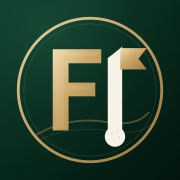
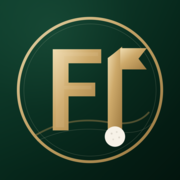
Add files via upload

Changed region(s): [[0.5833, 0.25, 0.6944, 0.7222], [0.6944, 0.75, 0.7222, 0.7778]]

diff --git a/styles.css b/styles.css
@@ -414,3 +414,185 @@ button,a,input,select,textarea,[role="button"],.quick-card,.learn-card,.guide-bu
   .nav-icon svg{width:31px;height:31px}
   .nav-item{font-size:10.5px}
 }
+
+/* V4.3 — balanced mobile scoring pass */
+@media(max-width:940px){
+  html,body{background:var(--paper)!important}
+  body{min-height:100vh;min-height:100dvh}
+  .desktop-shell,.phone-shell{background:var(--paper)!important}
+
+  .screen{padding-left:20px;padding-right:20px;padding-bottom:34px}
+  .welcome{padding:32px 3px 18px}
+  .welcome h1{font-size:38px;line-height:1.04;margin:9px 0 7px}
+  .page-title{font-size:36px;line-height:1.06}
+  .page-intro{padding:30px 3px 18px}
+  .eyebrow,.desktop-kicker{font-size:12px;letter-spacing:.17em}
+  .subtle,.body-copy{font-size:14px;line-height:1.55}
+  .section{margin-top:27px}
+  .section-head{margin-bottom:13px}
+  .section-head h3{font-size:24px}
+  .text-btn{font-size:12px;min-height:44px;padding:10px 4px}
+
+  .hero-card{padding:23px;border-radius:29px}
+  .live-pill,.status-pill{font-size:10px;padding:8px 10px}
+  .hero-round-id{font-size:10px}
+  .hero-main{margin-top:24px}
+  .hero-main h2{font-size:32px;line-height:1.07;margin:8px 0 9px}
+  .hero-main p{font-size:13px;line-height:1.48}
+  .hero-meta{gap:8px;margin-top:16px}
+  .hero-meta span{font-size:9px;padding:7px 10px}
+  .hero-bottom{gap:10px;margin-top:21px}
+  .hero-stat{padding:13px;border-radius:16px}
+  .hero-stat span,.mini-label{font-size:9px}
+  .hero-stat strong{font-size:27px;margin-top:6px}
+  .hero-actions{gap:10px;margin-top:5px}
+
+  .primary-btn,.secondary-btn,.danger-btn,.ghost-btn{
+    min-height:54px;
+    padding:15px 17px;
+    border-radius:16px;
+    font-size:14px;
+    line-height:1.15;
+  }
+  .small-btn{min-height:46px;font-size:12px;padding:12px 14px;border-radius:13px}
+  .icon-button{width:48px;height:48px;border-radius:14px}
+  .icon-button svg,.line-icon svg{width:22px;height:22px}
+
+  .quick-grid,.learn-grid{gap:12px}
+  .quick-card{padding:17px;min-height:136px;border-radius:21px}
+  .quick-card .icon-wrap,.learn-card .learn-icon{width:46px;height:46px;border-radius:14px;margin-bottom:12px}
+  .quick-card .icon-wrap svg,.learn-card .learn-icon svg{width:24px;height:24px}
+  .quick-card span{font-size:10px}
+  .quick-card strong{font-size:24px;margin-top:7px}
+  .quick-card small{font-size:10px;line-height:1.45}
+  .learn-card{padding:17px;min-height:168px;border-radius:21px}
+  .learn-card strong{font-size:20px}
+  .learn-card small{font-size:10px;line-height:1.5}
+  .learn-card b{font-size:9px}
+
+  .event-card{padding:17px;border-radius:21px}
+  .event-card h4{font-size:22px}
+  .event-card p{font-size:11px;line-height:1.48}
+  .event-tags span{font-size:8px;padding:6px 8px}
+
+  .play-header{padding:19px 20px;border-radius:27px;margin-top:16px}
+  .hole-nav{grid-template-columns:54px 1fr 54px}
+  .hole-nav button{width:52px;height:52px;border-radius:15px;font-size:26px}
+  .hole-centre span{font-size:10px}
+  .hole-centre strong{font-size:52px;margin-top:5px}
+  .hole-info{gap:7px;margin-top:15px}
+  .hole-info div{padding:11px 6px;border-radius:13px}
+  .hole-info span{font-size:8px}
+  .hole-info strong{font-size:19px}
+  .format-banner{margin-top:12px;padding:13px 14px;border-radius:17px}
+  .format-banner span{font-size:8px}
+  .format-banner strong{font-size:19px}
+  .format-banner button{min-height:46px;font-size:11px;padding:10px 12px}
+
+  .score-section{margin-top:20px}
+  .score-head{margin-bottom:11px}
+  .score-head h2{font-size:28px;line-height:1.06}
+  .sync-pill{font-size:9px}
+  .score-list{border-radius:22px}
+  .score-row{
+    grid-template-columns:46px minmax(0,1fr);
+    gap:10px;
+    padding:12px 14px;
+  }
+  .avatar{width:46px;height:46px;border-radius:15px;font-size:13px}
+  .avatar.small{width:36px;height:36px;border-radius:12px;font-size:10px}
+  .player-copy strong{font-size:15px;line-height:1.15}
+  .player-copy span{font-size:10px;line-height:1.35;margin-top:3px}
+  .score-control{
+    grid-column:1/-1;
+    width:100%;
+    grid-template-columns:52px minmax(78px,1fr) 52px 40px;
+    gap:7px;
+    margin-top:2px;
+  }
+  .score-control button{height:48px;min-width:48px;border-radius:14px;font-size:25px;font-weight:750}
+  .score-control .clear-score{font-size:15px}
+  .score-value{height:50px;border-radius:15px}
+  .score-value strong{font-size:26px}
+  .score-value.empty strong{font-size:20px}
+  .score-value span{font-size:8px;margin-top:3px}
+  .hole-actions{gap:10px;margin-top:14px}
+  .mini-impact{padding:15px;border-radius:19px;margin-top:16px}
+  .mini-impact .impact-grid{gap:9px;margin-top:10px}
+  .impact-item{padding:11px;border-radius:14px}
+  .impact-item span{font-size:8px}
+  .impact-item strong{font-size:18px}
+  .impact-item small{font-size:9px}
+
+  .segment-tabs{gap:6px;padding:5px;border-radius:16px;margin:14px 0}
+  .segment-tabs button{min-height:48px;font-size:12px;border-radius:12px}
+  .leaderboard{border-radius:22px}
+  .leader-head,.leader-row{grid-template-columns:38px minmax(0,1fr) 48px 76px;gap:8px}
+  .leader-head{font-size:8px;padding:12px 14px}
+  .leader-row{padding:14px}
+  .pos{font-size:18px}
+  .pos.first{width:32px;height:32px}
+  .leader-person{gap:10px}
+  .leader-person strong{font-size:13px}
+  .leader-person span{font-size:9px}
+  .leader-thru{font-size:11px}
+  .leader-score{font-size:22px}
+  .match-card{padding:16px;border-radius:20px}
+  .match-card strong{font-size:18px}
+  .match-card span{font-size:8px}
+  .match-result{font-size:12px}
+
+  .profile-hero{padding-top:30px}
+  .profile-hero h1{font-size:34px}
+  .profile-hero p{font-size:11px}
+  .profile-avatar{width:70px;height:70px;border-radius:23px;font-size:25px}
+  .stat-card{padding:15px;border-radius:18px}
+  .stat-card span{font-size:8px}
+  .stat-card strong{font-size:27px}
+
+  .field label{font-size:10px}
+  .field input,.field select,.field textarea,
+  .player-edit-row input,.player-edit-row select,
+  .hole-edit input,.drive-select select{
+    min-height:50px;
+    font-size:16px;
+    padding:13px;
+    border-radius:13px;
+  }
+  .form-section h3{font-size:22px}
+  .toggle-card{padding:14px;border-radius:15px}
+  .toggle-card strong{font-size:13px}
+  .toggle-card span{font-size:10px}
+  .modal-title-row h2{font-size:31px}
+  .modal-close{width:48px;height:48px;border-radius:14px}
+  .modal-sheet{padding:19px 20px calc(28px + env(safe-area-inset-bottom))}
+
+  .app-scroll{padding-bottom:100px}
+  .bottom-nav{
+    height:90px;
+    padding:8px 8px calc(8px + env(safe-area-inset-bottom));
+    background:rgba(251,250,246,.98);
+  }
+  .nav-item{font-size:10px;gap:4px;min-height:64px;border-radius:15px}
+  .nav-icon{width:46px;height:42px;border-radius:14px;font-size:0}
+  .nav-icon svg{width:28px;height:28px;fill:none;stroke:currentColor;stroke-width:2.15;stroke-linecap:round;stroke-linejoin:round}
+  .nav-item.active .nav-icon{background:#dfe9e2;box-shadow:inset 0 0 0 1px rgba(9,49,34,.05)}
+  .toast-root{bottom:102px}
+  .toast{font-size:12px;padding:13px 15px}
+}
+
+@media(max-width:390px){
+  .screen{padding-left:17px;padding-right:17px}
+  .welcome h1{font-size:36px}
+  .page-title{font-size:34px}
+  .hero-card{padding:21px}
+  .hero-main h2{font-size:30px}
+  .score-row{padding:11px 13px}
+  .score-control{grid-template-columns:50px minmax(74px,1fr) 50px 38px;gap:6px}
+  .score-control button{height:46px;min-width:46px}
+  .score-value{height:48px}
+  .bottom-nav{height:88px}
+  .nav-icon{width:44px;height:40px}
+  .nav-icon svg{width:27px;height:27px}
+  .nav-item{font-size:9.5px}
+}

diff --git a/index.html b/index.html
@@ -3,15 +3,15 @@
 <head>
   <meta charset="utf-8" />
   <meta name="viewport" content="width=device-width, initial-scale=1, viewport-fit=cover" />
-  <meta name="theme-color" content="#082017" />
+  <meta name="theme-color" content="#fbfaf6" />
   <meta name="apple-mobile-web-app-capable" content="yes" />
-  <meta name="apple-mobile-web-app-status-bar-style" content="black-translucent" />
+  <meta name="apple-mobile-web-app-status-bar-style" content="default" />
   <meta name="apple-mobile-web-app-title" content="Fairway One" />
   <meta name="description" content="Fairway One — flexible golf competitions, live scoring and professional event tools." />
-  <link rel="manifest" href="/manifest.json?v=42" />
-  <link rel="icon" href="/icon-192.png?v=42" type="image/png" />
-  <link rel="apple-touch-icon" href="/apple-touch-icon.png?v=42" />
-  <link rel="stylesheet" href="/styles.css?v=42" />
+  <link rel="manifest" href="/manifest.json?v=43" />
+  <link rel="icon" href="/icon-192.png?v=43" type="image/png" />
+  <link rel="apple-touch-icon" href="/apple-touch-icon.png?v=43" />
+  <link rel="stylesheet" href="/styles.css?v=43" />
   <title>Fairway One</title>
 </head>
 <body>
@@ -30,7 +30,7 @@
         <span><i>✓</i> Ambrose drive tracking and team scoring</span>
         <span><i>✓</i> Built to connect to Fairway One's own Supabase backend</span>
       </div>
-      <div class="prototype-badge">FAIRWAY ONE · FUNCTIONAL PROTOTYPE V4.2</div>
+      <div class="prototype-badge">FAIRWAY ONE · FUNCTIONAL PROTOTYPE V4.3</div>
     </aside>
 
     <div class="phone-shell" id="phoneShell">
@@ -46,6 +46,6 @@
       <div id="toastRoot" class="toast-root"></div>
     </div>
   </div>
-  <script type="module" src="/app.js?v=42"></script>
+  <script type="module" src="/app.js?v=43"></script>
 </body>
 </html>

diff --git a/sw.js b/sw.js
@@ -1,4 +1,4 @@
-const CACHE = 'fairway-one-v4-2';
+const CACHE = 'fairway-one-v4-3';
 const ASSETS = ['/', '/index.html', '/styles.css', '/app.js', '/format-engine.js', '/cloud.js', '/manifest.json', '/fairway-one-mark.svg', '/icon-192.png', '/icon-512.png', '/icon-maskable-512.png', '/apple-touch-icon.png'];
 self.addEventListener('install', event => event.waitUntil(caches.open(CACHE).then(cache => cache.addAll(ASSETS))));
 self.addEventListener('activate', event => event.waitUntil(caches.keys().then(keys => Promise.all(keys.filter(k => k !== CACHE).map(k => caches.delete(k))))));

diff --git a/README.md b/README.md
@@ -1,4 +1,4 @@
-# Fairway One — Functional Prototype V4.2
+# Fairway One — Functional Prototype V4.3
 
 V4 is the first cloud-connected Fairway One prototype. It keeps the premium mobile design, removes the hard-coded segment concept, and builds around complete 18-hole formats first.
 
@@ -58,7 +58,7 @@ Fairway One has its own Supabase project, data, frontend files and deployment pa
 Upload the contents of this folder to the root of the Fairway One GitHub repository. Vercel can deploy it as a static app with no build step.
 
 
-## V4.2 mobile usability pass
+## V4.3 mobile usability pass
 - Larger touch targets throughout the app
 - 16px form controls to prevent iOS focus zoom
 - Global `touch-action: manipulation` to suppress double-tap zoom while preserving normal panning/pinch gestures
@@ -67,10 +67,19 @@ Upload the contents of this folder to the root of the Fairway One GitHub reposit
 - New premium raster PWA / Apple home-screen icon assets
 
 
-## V4.2 mobile usability pass
+## V4.3 mobile usability pass
 - Larger mobile typography throughout
 - Full-width scoring controls on phones
 - Larger action buttons and navigation targets
 - Proper SVG bottom-navigation icons
 - New premium Fairway One F1/flag app icon
 - PWA cache bumped so refreshed assets deploy cleanly
+
+
+## V4.3 mobile balance pass
+
+- Reduced score controls and row height so four-player cards can fit comfortably on one scoring view.
+- Reduced global button scale from V4.2 while keeping readable touch targets.
+- Reduced bottom navigation height and icon size.
+- Changed the iOS/PWA safe-area background to Fairway One cream so the bottom system area blends into the navigation rather than showing a dark green strip.
+- Updated the F1 icon so the flagstick uses the same gold treatment as the F.
